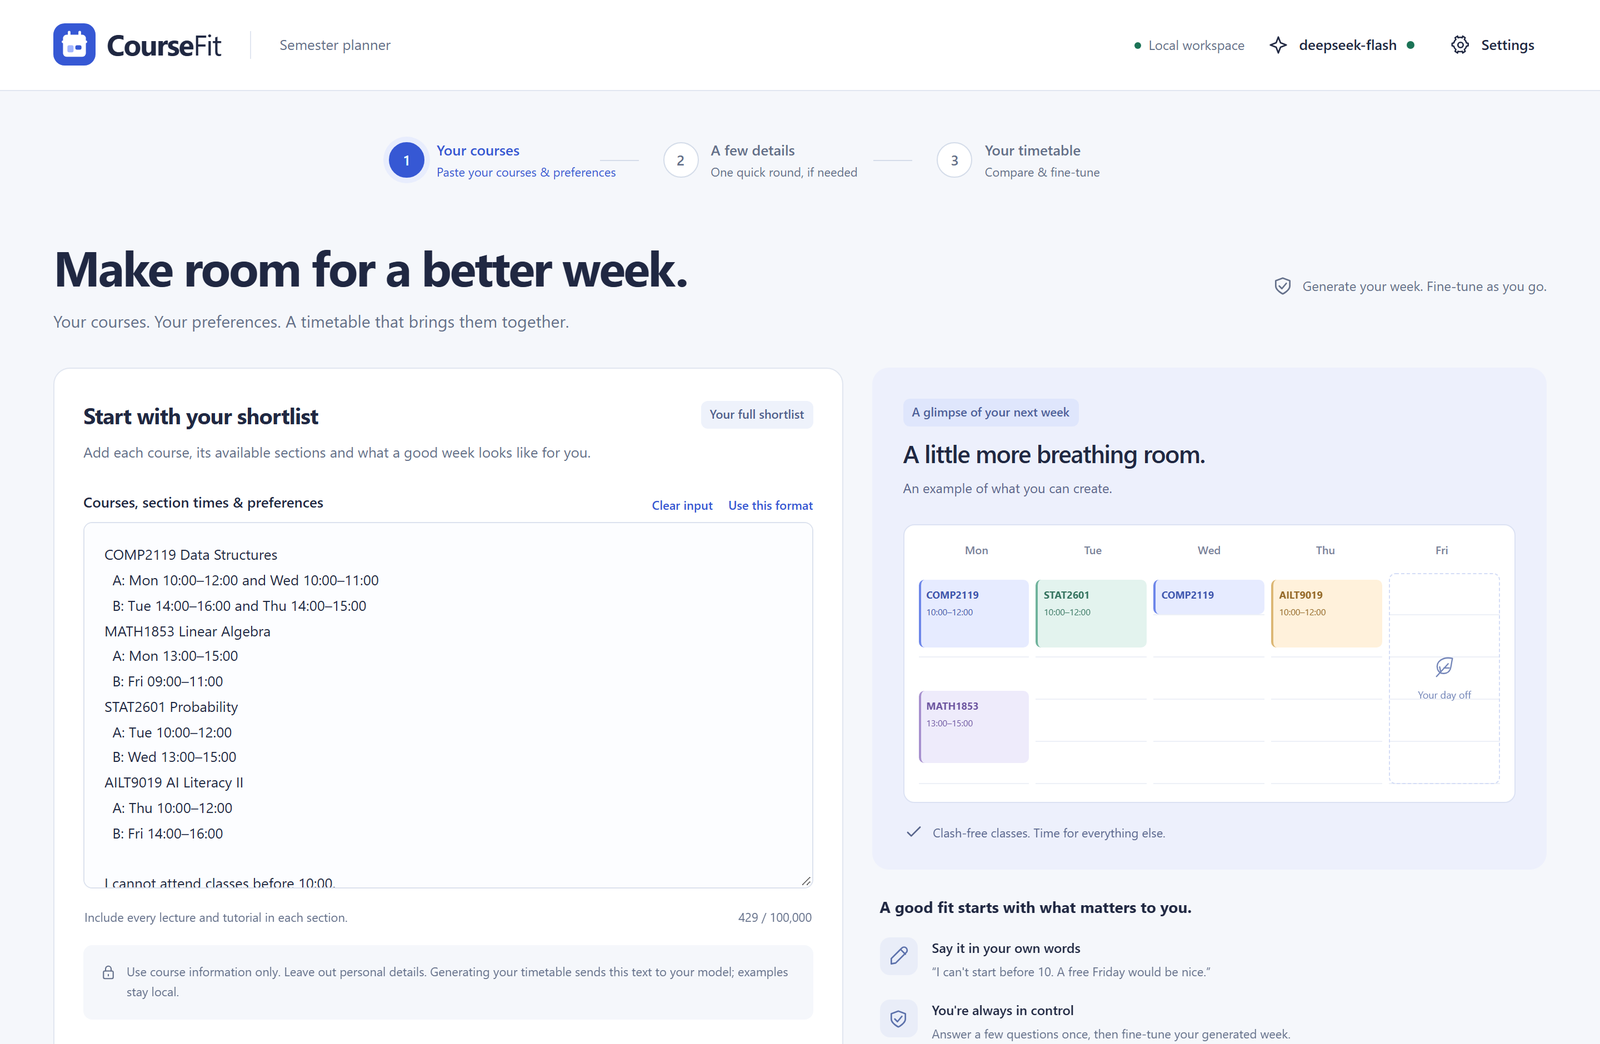
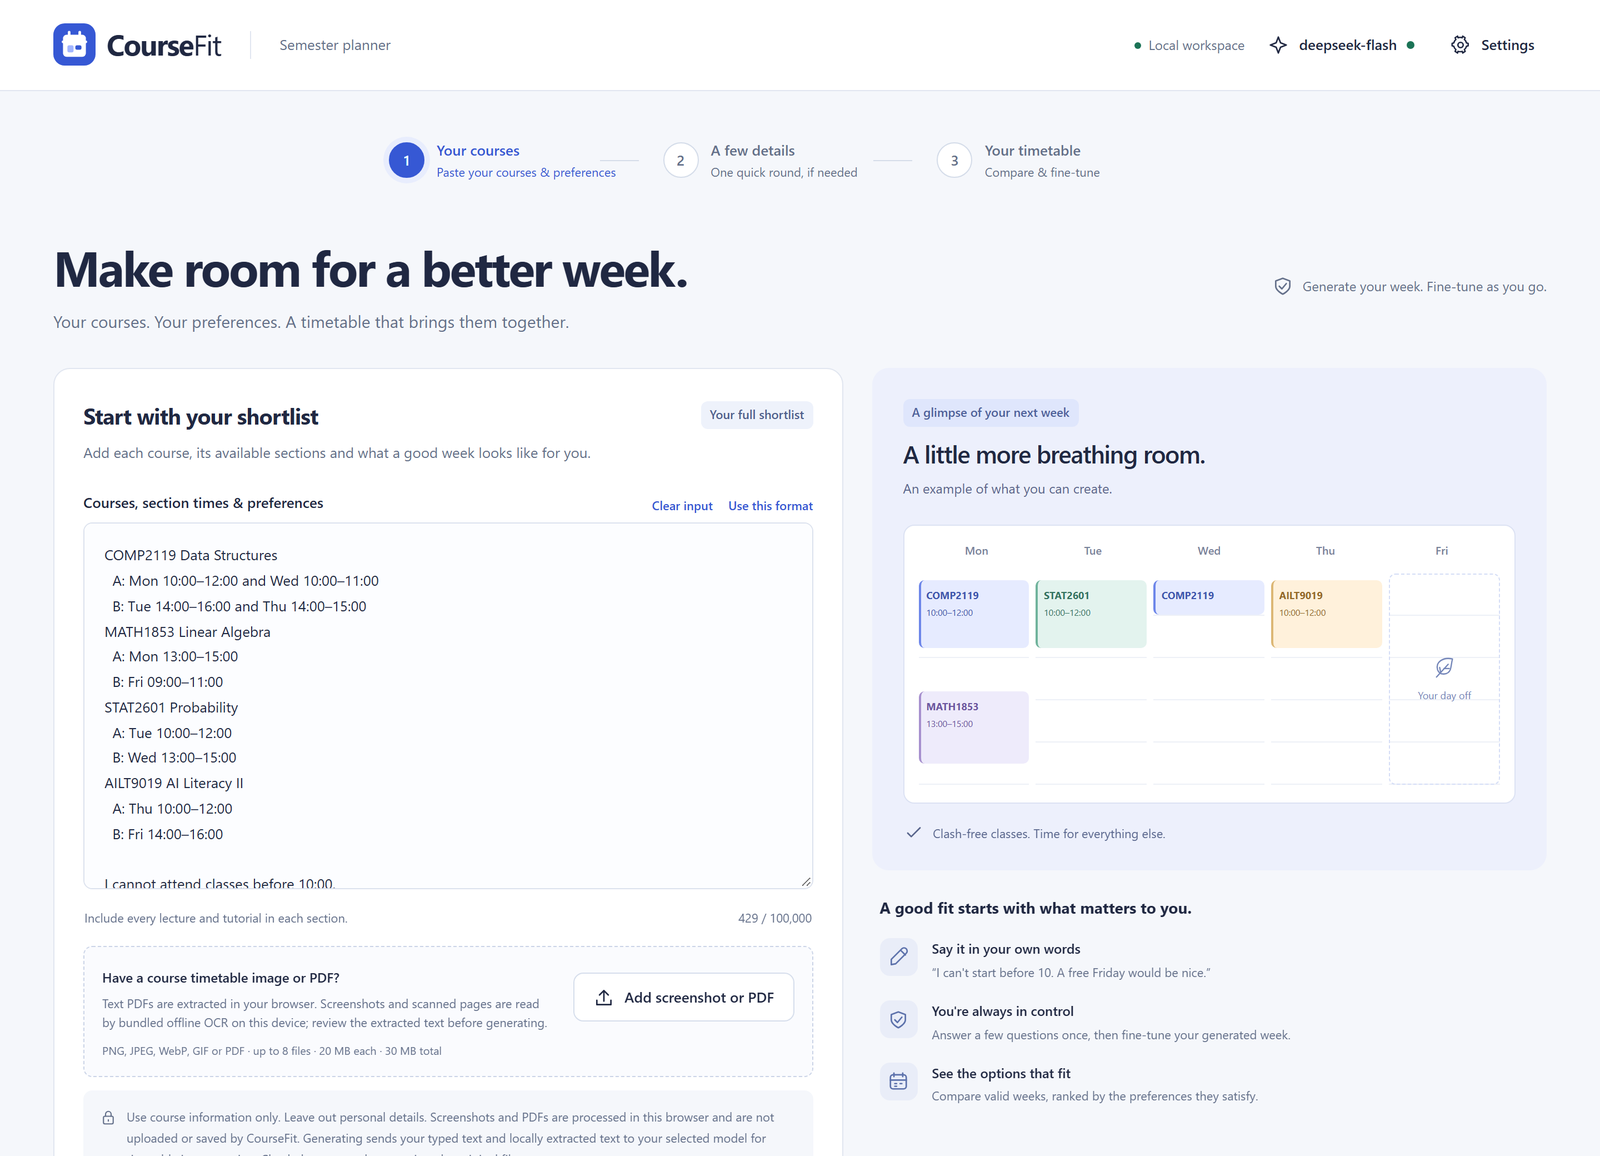
Add Pages workflow and update project page for PDF/OCR import

diff --git a/site/index.html b/site/index.html
@@ -77,8 +77,8 @@
             </a>
           </div>
           <ul class="hero-facts" aria-label="At a glance">
-            <li>Node.js 22+</li>
-            <li>Zero runtime dependencies</li>
+            <li>Node.js 22.13+</li>
+            <li>On-device PDF &amp; OCR</li>
             <li>Binds to 127.0.0.1</li>
           </ul>
         </div>
@@ -174,6 +174,7 @@
             <p>Fine-tune in ordinary language: “Allow 09:00 classes, keep Friday free.” The current plan is the source of truth, so unaffected courses stay put.</p>
           </article>
         </div>
+        <p class="feature-note">Also included: up to eight PDFs or screenshots per input, with PDF text extraction and OCR running on your device; catalogue placeholders for online classes; and no course, section or meeting caps.</p>
       </div>
     </section>
 
@@ -241,12 +242,12 @@
             <div class="shot-frame">
               <picture>
                 <source srcset="assets/planner-input.webp" type="image/webp">
-                <img src="assets/planner-input.png" width="1600" height="1044" alt="Input screen with a course catalogue pasted into a text area, a character budget and a preview timetable panel.">
+                <img src="assets/planner-input.png" width="1600" height="1156" alt="Input screen with a pasted course catalogue, a character budget, an option to add a screenshot or PDF, and a preview timetable panel.">
               </picture>
             </div>
             <figcaption>
               <h3>Start from your shortlist</h3>
-              <p>A plain text area with a 100,000-character budget, a live preview and examples that run without a model key.</p>
+              <p>A plain text area with a 100,000-character budget, plus PDF and screenshot import that runs on your device.</p>
             </figcaption>
           </figure>
 
@@ -289,7 +290,7 @@
             <p class="section-lead dark-lead">The model is only the parser. Everything that decides a timetable — search, scoring, validation and the exhaustive reference — is deterministic code you can read and test.</p>
 
             <ol class="pipeline" aria-label="Generation pipeline">
-              <li><span class="pipe-num">01</span><div><h3>Input</h3><p>Courses, sections, meeting times and preferences as plain text.</p></div></li>
+              <li><span class="pipe-num">01</span><div><h3>Input</h3><p>Courses, sections and preferences — typed, pasted, or read from a PDF or screenshot on your device.</p></div></li>
               <li><span class="pipe-num">02</span><div><h3>Extract</h3><p>Your chosen provider returns JSON with evidence quotes, in JSON mode, with a 90-second timeout.</p></div></li>
               <li><span class="pipe-num">03</span><div><h3>Verify</h3><p>Schema and quote checks against the original text. At most one correction request, then a safe failure.</p></div></li>
               <li><span class="pipe-num">04</span><div><h3>Ask once</h3><p>Up to five consolidated questions, only when essential facts are unclear or missing.</p></div></li>
@@ -302,7 +303,7 @@
           </div>
 
           <aside class="dark-aside" aria-label="Engineering facts">
-            <div class="stat"><strong>0</strong><span>runtime dependencies — Node.js built-ins only</span></div>
+            <div class="stat"><strong>0</strong><span>file uploads — PDF text extraction and OCR run in your browser</span></div>
             <div class="stat"><strong>69</strong><span>automated tests, including HTTP integration</span></div>
             <div class="stat"><strong>78</strong><span>solver scenarios matched to an exhaustive oracle</span></div>
             <div class="stat"><strong>4 s</strong><span>search budget, 20 options displayed</span></div>
@@ -369,7 +370,7 @@
             <span class="icon-box tone-green"><svg class="icon" aria-hidden="true"><use href="#i-lock"/></svg></span>
             <h3>On your machine</h3>
             <ul class="ticks">
-              <li>The solver, ranking, validation, examples and this page’s data never leave the computer.</li>
+              <li>The solver, ranking, validation, PDF text extraction and OCR run on the computer; screenshots are not uploaded.</li>
               <li>Drafts and results live in memory for up to two hours and vanish on restart.</li>
               <li>API keys are stored in <code>.local/</code> with owner-only permissions, excluded from Git, or kept for the session only.</li>
               <li>The server binds to loopback and rejects foreign hosts and origins.</li>
@@ -405,11 +406,12 @@
           <div class="start-copy">
             <p class="kicker">08 — Get started</p>
             <h2 id="start-title">Run it in a minute.</h2>
-            <p>Node.js 22 or later, no install step, no build, no database. The planner starts on your machine and opens in the browser.</p>
+            <p>Node.js 22.13 or later. Install the PDF and OCR dependencies once with <code>npm ci</code>; there is no build step and no database.</p>
             <ol class="start-steps">
-              <li><span class="start-step-num">1</span><span>Install Node.js 22+.</span></li>
+              <li><span class="start-step-num">1</span><span>Install Node.js 22.13+.</span></li>
               <li><span class="start-step-num">2</span><span>Clone the repository.</span></li>
-              <li><span class="start-step-num">3</span><span>Run <code>npm start</code>, then open <code>127.0.0.1:3000</code></span></li>
+              <li><span class="start-step-num">3</span><span>Run <code>npm ci</code>, then <code>npm start</code></span></li>
+              <li><span class="start-step-num">4</span><span>Open <code>127.0.0.1:3000</code></span></li>
             </ol>
             <div class="start-actions">
               <a class="button button-primary" href="https://github.com/TSXG-25/ailt-project-CourseFit" target="_blank" rel="noopener">
@@ -431,13 +433,14 @@
               <div class="terminal-head">
                 <span class="dots" aria-hidden="true"><i></i><i></i><i></i></span>
                 <span>terminal</span>
-                <button class="copy-button" type="button" data-copy="git clone https://github.com/TSXG-25/ailt-project-CourseFit.git&#10;cd ailt-project-CourseFit&#10;npm start">
+                <button class="copy-button" type="button" data-copy="git clone https://github.com/TSXG-25/ailt-project-CourseFit.git&#10;cd ailt-project-CourseFit&#10;npm ci&#10;npm start">
                   <svg class="icon" aria-hidden="true"><use href="#i-copy"/></svg>
                   <span aria-live="polite">Copy</span>
                 </button>
               </div>
               <pre class="terminal-body" aria-label="Commands to run CourseFit"><code><span class="t-prompt">$</span> git clone https://github.com/TSXG-25/ailt-project-CourseFit.git
 <span class="t-prompt">$</span> cd ailt-project-CourseFit
+<span class="t-prompt">$</span> npm ci
 <span class="t-prompt">$</span> npm start
 <span class="t-out">CourseFit is ready at http://127.0.0.1:3000</span></code></pre>
             </div>

diff --git a/site/styles.css b/site/styles.css
@@ -253,12 +253,13 @@
 
   /* Gallery */
   .gallery { display: grid; grid-template-columns: repeat(3, minmax(0, 1fr)); gap: 22px; }
-  .shot-frame { border: 1px solid var(--line); border-radius: 12px; overflow: hidden; background: #fff; box-shadow: var(--shadow-sm); }
-  .shot-frame img { width: 100%; height: auto; }
+  .shot-frame { border: 1px solid var(--line); border-radius: 12px; overflow: hidden; background: #fff; box-shadow: var(--shadow-sm); aspect-ratio: 1600 / 1044; display: grid; place-items: center; }
+  .shot-frame img { width: 100%; height: 100%; object-fit: contain; }
   .shot figcaption { padding-top: 16px; }
   .shot h3 { font-size: .9875rem; margin-bottom: 6px; }
   .shot p { color: var(--body); font-size: .875rem; line-height: 1.6; }
   .gallery-note { margin-top: 26px; font-size: .8125rem; color: var(--muted); }
+  .feature-note { margin-top: 22px; font-size: .875rem; line-height: 1.6; color: var(--muted); max-width: 78ch; }
 
   /* Engineering */
   .dark-grid { display: grid; grid-template-columns: minmax(0, 1.06fr) minmax(0, .94fr); gap: clamp(36px, 5.5vw, 72px); align-items: start; }

diff --git a/README.md b/README.md
@@ -110,6 +110,18 @@ This uses a key saved with **Remember the key** or supplied through `.env` and e
 
 **Fixed-set model accuracy has not yet been measured.** A separately authorized real catalogue regression passed, but it does not establish the proposal's accuracy targets. Mock provider tests validate integration and failure handling. See [verification notes](docs/verification.md) for completed checks and remaining validation.
 
+## Project webpage
+
+`site/` holds a static project page: the problem, the working behaviour, screenshots from the running app, engineering notes and the verification record. It is plain HTML, CSS and a small script with no build step and no external requests.
+
+Preview it locally:
+
+```sh
+python -m http.server 8080 --directory site
+```
+
+Then open **http://127.0.0.1:8080**. To publish it, set **Settings → Pages → Source** to **GitHub Actions**; `.github/workflows/pages.yml` deploys `site/` on each push to `main` that changes it. See [site/README.md](site/README.md) for details.
+
 ## Project layout
 
 ```text
@@ -120,9 +132,10 @@ evaluation/   Fixed language/solver cases, evaluation metrics and exhaustive ora
 test/         Node unit and HTTP integration tests
 scripts/      Real-model parsing evaluation
 docs/         Architecture, design and verification notes
+site/         Static project webpage published with GitHub Pages
 ```
 
-See [architecture](docs/architecture.md) for API and implementation details. MCP packaging, offline model integration, preference weights, detailed infeasibility diagnosis and a public project webpage remain optional follow-up work.
+See [architecture](docs/architecture.md) for API and implementation details. MCP packaging, offline model integration, preference weights and detailed infeasibility diagnosis remain optional follow-up work.
 
 ## Implementation references
 
